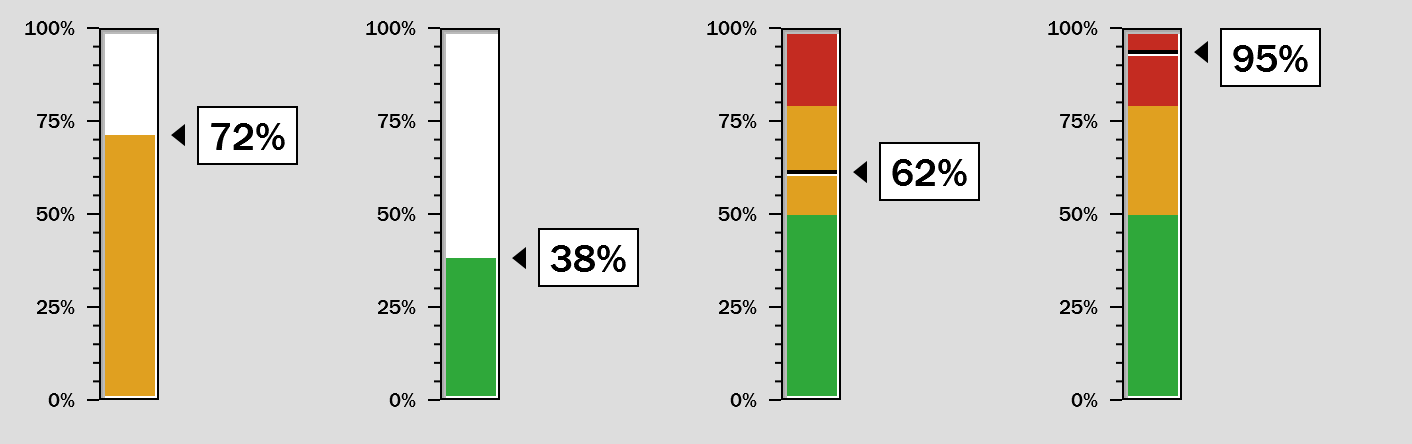
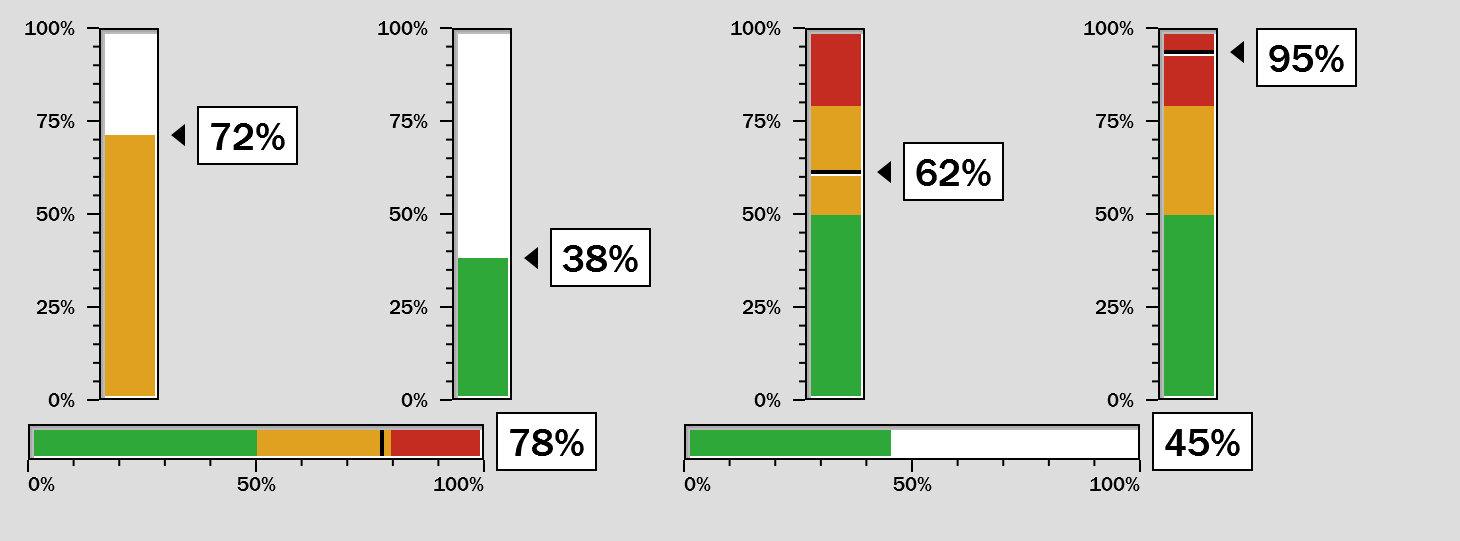
Corrige la medida del medidor horizontal y le dibuja su escala
En horizontal el número se pintaba fuera del control. La medida usaba la
misma cuenta que en vertical, donde la escala gasta ancho y la cifra
también; acostado la escala gasta alto y solo la cifra gasta ancho, así
que el carril se llevaba el control entero y a la cifra no le quedaba
sitio dentro.

La escala horizontal no existía: la propiedad se aceptaba y se ignoraba en
silencio, que es peor que no tenerla. Ahora va bajo el carril, con sus
marcas menores, y los números de los extremos se recargan contra su borde
para no salirse.

La cifra acostada va sin triángulo indicador: en vertical la caja flota a
la altura del valor y hay que señalar a cuál, aquí está fija al final del
carril y no apunta a nada.

Se añade el caso horizontal al comprobador visual. Ese era el hueco por el
que se coló: los cuatro escenarios del medidor eran verticales.

Changed region(s): [[0.0, 0.0293, 0.4674, 0.9077], [0.4674, 0.0293, 0.9348, 0.9077]]

diff --git a/src/MacOS9.Platinum.Gallery/MainWindow.xaml b/src/MacOS9.Platinum.Gallery/MainWindow.xaml
@@ -243,7 +243,7 @@
                                                      Orientation="Horizontal"
                                                      BandMode="Zones"
                                                      TrackThickness="18"
-                                                     ShowScale="False"
+                                                     ScaleStep="50"
                                                      Margin="0,0,0,10" />
 
                         <TextBlock Text="Lamp hours" Margin="0,0,0,4" />

diff --git a/src/MacOS9.Platinum/Controls/PlatinumLevelGauge.cs b/src/MacOS9.Platinum/Controls/PlatinumLevelGauge.cs
@@ -312,12 +312,29 @@ public class PlatinumLevelGauge : FrameworkElement
 
     protected override Size MeasureOverride(Size disponible)
     {
-        double etiquetas = ShowScale ? Etiquetas().Max(e => e.Width) + LargoMarca + Aire : 0;
-        double cifra = ShowReadout ? Cifra(Maximum).Width + (Aire * 2) + AnchoIndicador + Aire : 0;
+        if (Orientation == Orientation.Vertical)
+        {
+            double etiquetas = ShowScale ? Etiquetas().Max(e => e.Width) + LargoMarca + Aire : 0;
+            return new Size(etiquetas + TrackThickness + AnchoCifra(), 120);
+        }
 
-        return Orientation == Orientation.Vertical
-            ? new Size(etiquetas + TrackThickness + cifra, 120)
-            : new Size(160, etiquetas + TrackThickness + cifra);
+        // En horizontal la escala va debajo del carril y la cifra a la derecha, así
+        // que cada una gasta un eje distinto. La primera versión usaba la misma
+        // cuenta para las dos orientaciones y el número terminaba pintado fuera del
+        // control.
+        double alto = TrackThickness + 4;
+        if (ShowScale) { alto += LargoMarca + Etiquetas().Max(e => e.Height); }
+
+        return new Size(120 + AnchoCifra(), alto);
+    }
+
+    /// <summary>Lo que gasta la cifra a un lado del carril, indicador incluido.</summary>
+    private double AnchoCifra()
+    {
+        if (!ShowReadout) { return 0; }
+
+        double indicador = Orientation == Orientation.Vertical ? AnchoIndicador + Aire : 0;
+        return Aire + indicador + Cifra(Maximum).Width + (Aire * 2);
     }
 
     // ---- Pintado -----------------------------------------------------------
@@ -539,13 +556,17 @@ public class PlatinumLevelGauge : FrameworkElement
 
     private void Horizontal(DrawingContext dc, double pixel, double grosor)
     {
+        // El ancho de la cifra se descuenta del carril: si no, el carril se lleva
+        // todo el control y el número sale dibujado fuera de sus propios límites.
         var carril = new Rect(
             Cuadrar(2, pixel),
             Cuadrar(2, pixel),
-            Cuadrar(ActualWidth - 4, pixel),
+            Cuadrar(ActualWidth - 4 - AnchoCifra(), pixel),
             Cuadrar(TrackThickness, pixel));
 
         if (carril.Width <= 4 || carril.Height <= 4) { return; }
+
+        if (ShowScale) { EscalaHorizontal(dc, carril, grosor); }
 
         Pozo(dc, carril, grosor);
 
@@ -583,10 +604,54 @@ public class PlatinumLevelGauge : FrameworkElement
 
         if (!ShowReadout) { return; }
 
+        // Sin triángulo indicador, al revés que en vertical: allá la caja flota a
+        // la altura del valor y hace falta señalar a cuál. Aquí la caja está fija
+        // al final del carril y no apunta a nada.
         FormattedText cifra = Cifra(Value);
-        dc.DrawText(cifra, new Point(
-            carril.Right + Aire,
-            carril.Y + ((carril.Height - cifra.Height) / 2)));
+        double cajaAlto = Cuadrar(cifra.Height + Aire, pixel);
+        var caja = new Rect(
+            Cuadrar(carril.Right + Aire, pixel),
+            Cuadrar(carril.Y + ((carril.Height - cajaAlto) / 2), pixel),
+            Cuadrar(cifra.Width + (Aire * 2), pixel),
+            cajaAlto);
+
+        dc.DrawRectangle(Background, null, caja);
+        Marco(dc, caja, grosor);
+        dc.DrawText(cifra, new Point(caja.X + Aire, caja.Y + (Aire / 2)));
+    }
+
+    private void EscalaHorizontal(DrawingContext dc, Rect carril, double grosor)
+    {
+        int pasos = (int)Math.Round((Maximum - Minimum) / ScaleStep);
+        if (pasos <= 0) { return; }
+
+        double arriba = carril.Bottom + LargoMarca;
+
+        for (int i = 0; i <= pasos; i++)
+        {
+            double valor = Minimum + (i * ScaleStep);
+            double x = carril.X + (carril.Width * Fraccion(valor));
+
+            dc.DrawRectangle(Foreground, null,
+                new Rect(x - (grosor / 2), carril.Bottom, grosor, LargoMarca));
+
+            // La primera y la última se recargan contra su extremo para que no se
+            // salgan del carril.
+            FormattedText texto = Texto(Numero(valor) + Unit, FontSize);
+            double tx = i == 0 ? x
+                : i == pasos ? x - texto.Width
+                : x - (texto.Width / 2);
+            dc.DrawText(texto, new Point(tx, arriba));
+
+            if (i == pasos || MinorTicks <= 0) { continue; }
+            for (int m = 1; m <= MinorTicks; m++)
+            {
+                double sub = valor + (ScaleStep * m / (MinorTicks + 1));
+                double xs = carril.X + (carril.Width * Fraccion(sub));
+                dc.DrawRectangle(Foreground, null,
+                    new Rect(xs - (grosor / 2), carril.Bottom, grosor, LargoMarca / 2));
+            }
+        }
     }
 
     private double Fraccion(double valor) =>

diff --git a/tools/Probe/Program.cs b/tools/Probe/Program.cs
@@ -213,7 +213,12 @@ internal static class Program
             Row(Medidor(72, LevelBandMode.Fill),
                 Medidor(38, LevelBandMode.Fill),
                 Medidor(62, LevelBandMode.Zones),
-                Medidor(95, LevelBandMode.Zones))));
+                Medidor(95, LevelBandMode.Zones)),
+            // El caso horizontal va aquí porque su medida es distinta: la escala
+            // gasta alto y la cifra ancho. Sin este escenario, que la cifra se
+            // dibujara fuera del control no lo detectaba nadie.
+            Row(Medidor(78, LevelBandMode.Zones, Orientation.Horizontal),
+                Medidor(45, LevelBandMode.Fill, Orientation.Horizontal))));
 
         Render("riel", dpi, Stack(
             Row(Rail())));
@@ -420,15 +425,19 @@ internal static class Program
         return new StackPanel { Orientation = Orientation.Horizontal, Children = { a, b, c } };
     }
 
-    private static FrameworkElement Medidor(double valor, LevelBandMode modo)
+    private static FrameworkElement Medidor(double valor, LevelBandMode modo,
+        Orientation sentido = Orientation.Vertical)
     {
         var medidor = new PlatinumLevelGauge
         {
             Value = valor,
             BandMode = modo,
-            Height = 190,
+            Orientation = sentido,
             Margin = new Thickness(0, 0, 18, 0),
         };
+
+        if (sentido == Orientation.Vertical) { medidor.Height = 190; }
+        else { medidor.Width = 300; medidor.TrackThickness = 18; medidor.ScaleStep = 50; }
 
         // Franjas al revés que el ejemplo del búfer: aquí más es peor, que es el
         // caso de una ocupación. El control no supone ninguno de los dos sentidos.
